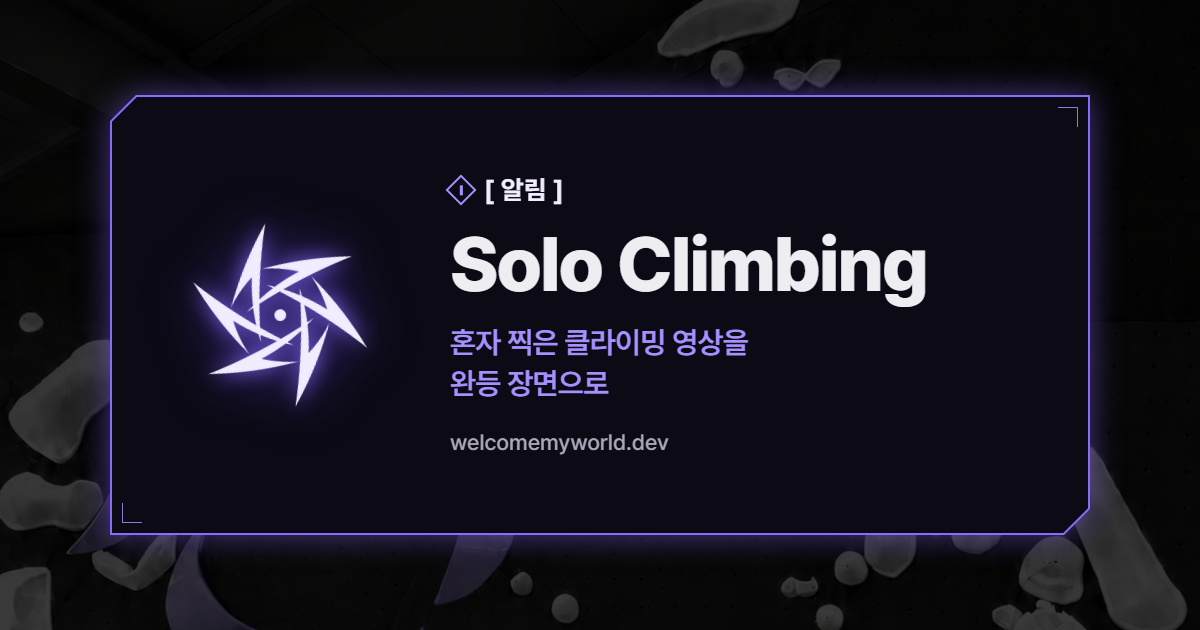
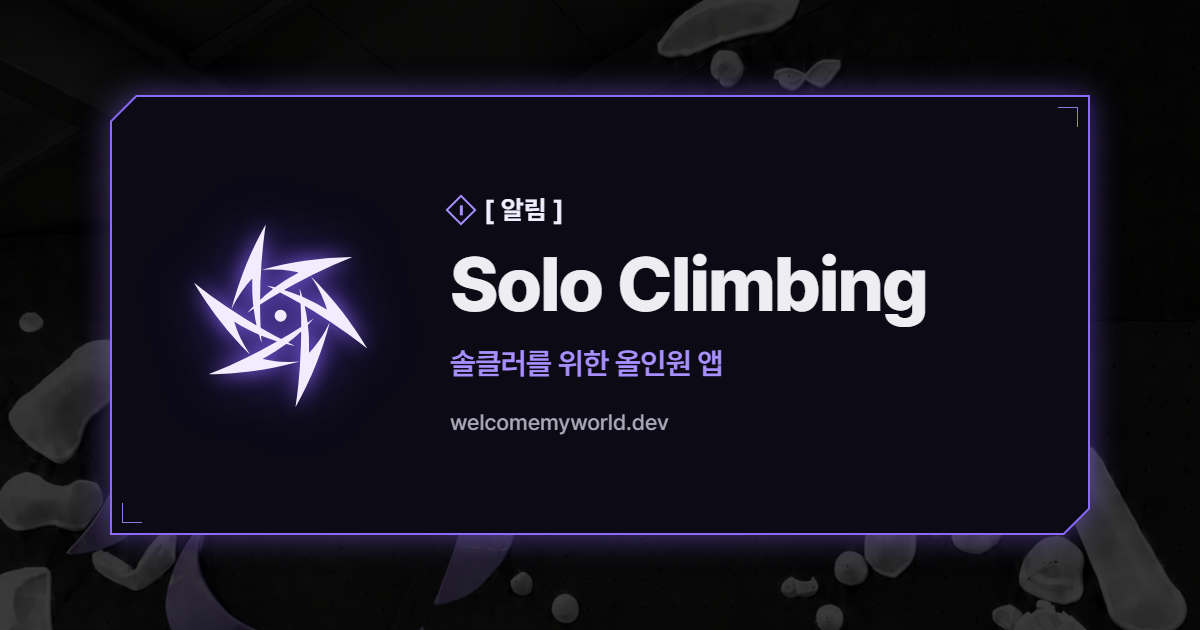
소개 문구를 오너가 고정한 «솔클러를 위한 올인원 앱»으로 — 검색 설명 · 공유 미리보기(글 · 그림) · 대문 카드

Changed region(s): [[0.37, 0.2714, 0.7708, 0.6333], [0.37, 0.6635, 0.555, 0.7238], [0.185, 0.4222, 0.2775, 0.573]]

diff --git a/soloclimbing/index.html b/soloclimbing/index.html
@@ -1,7 +1,7 @@
 <!doctype html>
 <html lang="ko"><head><meta charset="utf-8"><meta name="viewport" content="width=device-width,initial-scale=1">
 <title>Solo Climbing</title>
-<meta name="description" content="혼자 찍은 클라이밍 영상을 완등 장면만 남게 다듬는 앱. Google Play · App Store.">
+<meta name="description" content="솔클러를 위한 올인원 앱. Google Play · App Store.">
 <meta name="theme-color" content="#08080B">
 <link rel="canonical" href="https://welcomemyworld.dev/soloclimbing/">
 <link rel="icon" href="favicon.ico" sizes="32x32">
@@ -10,12 +10,12 @@
 <meta property="og:type" content="website">
 <meta property="og:site_name" content="Solo Climbing">
 <meta property="og:title" content="Solo Climbing">
-<meta property="og:description" content="혼자 찍은 클라이밍 영상을 완등 장면으로">
+<meta property="og:description" content="솔클러를 위한 올인원 앱">
 <meta property="og:url" content="https://welcomemyworld.dev/soloclimbing/">
-<meta property="og:image" content="https://welcomemyworld.dev/soloclimbing/og.png">
+<meta property="og:image" content="https://welcomemyworld.dev/soloclimbing/og.png?v=2">
 <meta property="og:image:width" content="1200">
 <meta property="og:image:height" content="630">
-<meta property="og:image:alt" content="[ 알림 ] Solo Climbing — 혼자 찍은 클라이밍 영상을 완등 장면으로">
+<meta property="og:image:alt" content="[ 알림 ] Solo Climbing — 솔클러를 위한 올인원 앱">
 <meta property="og:locale" content="ko_KR">
 <meta name="twitter:card" content="summary_large_image">
 <link rel="stylesheet" href="https://cdn.jsdelivr.net/gh/orioncactus/pretendard@v1.3.9/dist/web/static/pretendard.min.css">

diff --git a/index.html b/index.html
@@ -53,7 +53,7 @@ h1,h2,h3{text-wrap:balance}p,li,td{text-wrap:pretty}
    <a class="proj" href="soloclimbing/">
     <span class="bk tr" aria-hidden="true"></span><span class="bk bl" aria-hidden="true"></span>
     <span class="ico" aria-hidden="true"><i></i></span>
-    <span><b>Solo Climbing</b><small>혼자 찍은 클라이밍 영상을 완등 장면으로</small></span>
+    <span><b>Solo Climbing</b><small>솔클러를 위한 올인원 앱</small></span>
     <span class="go">보러 가기 →</span>
    </a>
   </nav>
